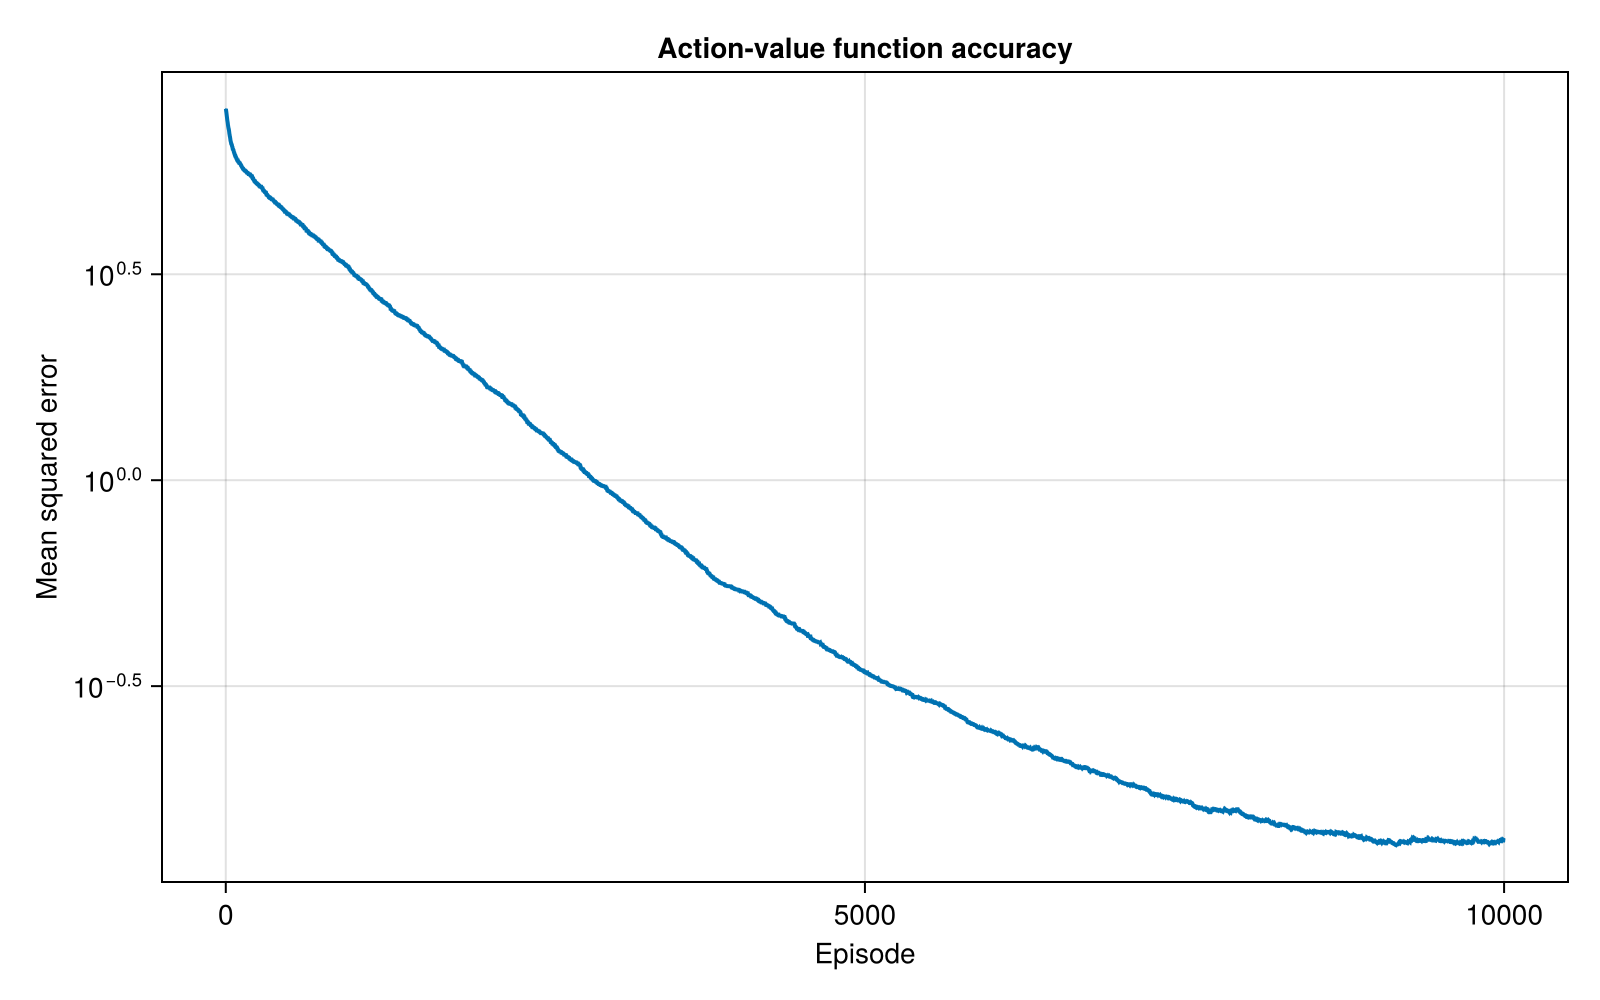
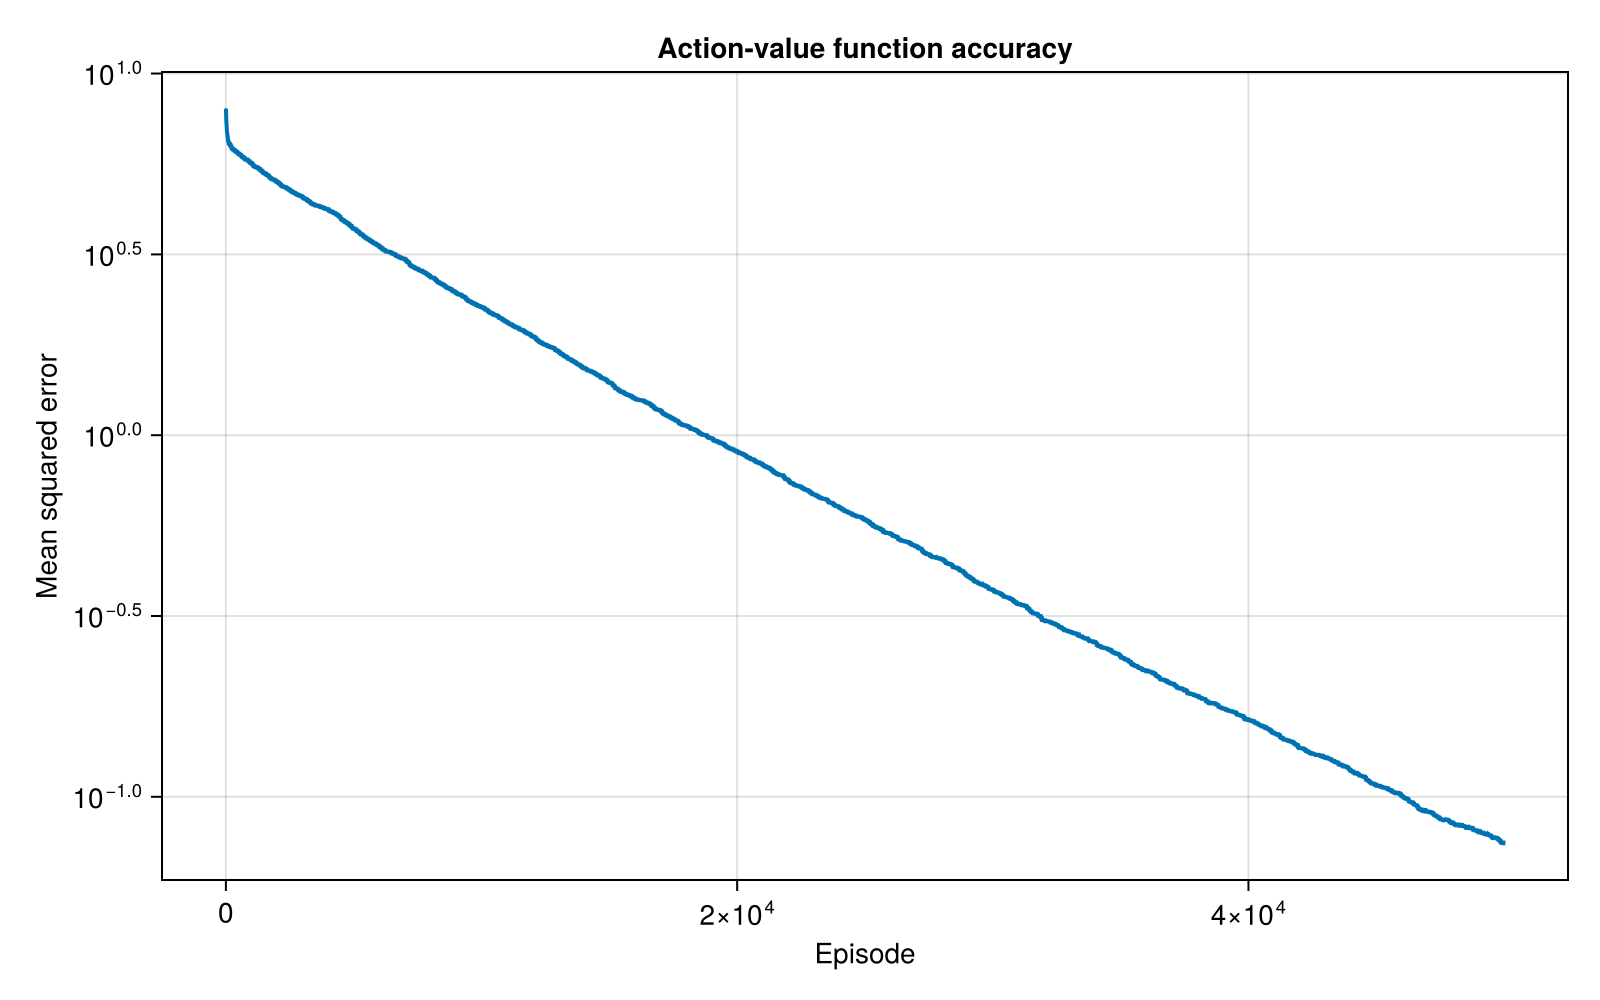
finish project assignment

diff --git a/concept.md b/concept.md
@@ -1,3 +1,5 @@
+Note, some of the plots are different from the report because I did some extra tests while trying to understand the benchmarks that were included in the report.
+
 # task
  * choose a method from chapter 7
  * describe it
@@ -18,15 +20,13 @@ Multiple iterations from basic to interesting:
 
 # todo
 1. just implement gridworld example while keeping interfaces flexible
-2. look for good 2-agents problem
-    1. reread chapter 3 and get game inspiration
-    2. find good 2-player problem
-    3. adjust interfaces to support also this
+    4. implement nstepQ(\sigma)
+    12. generate docs for code
 * roadmap
 * timeplan including report (5 days including today/thursday and excluding tuesday)
 * find better names for modules
 
-# code concept
+# code concept (very outdated)
  * Algorithm
  * MDP
  * example / problem
